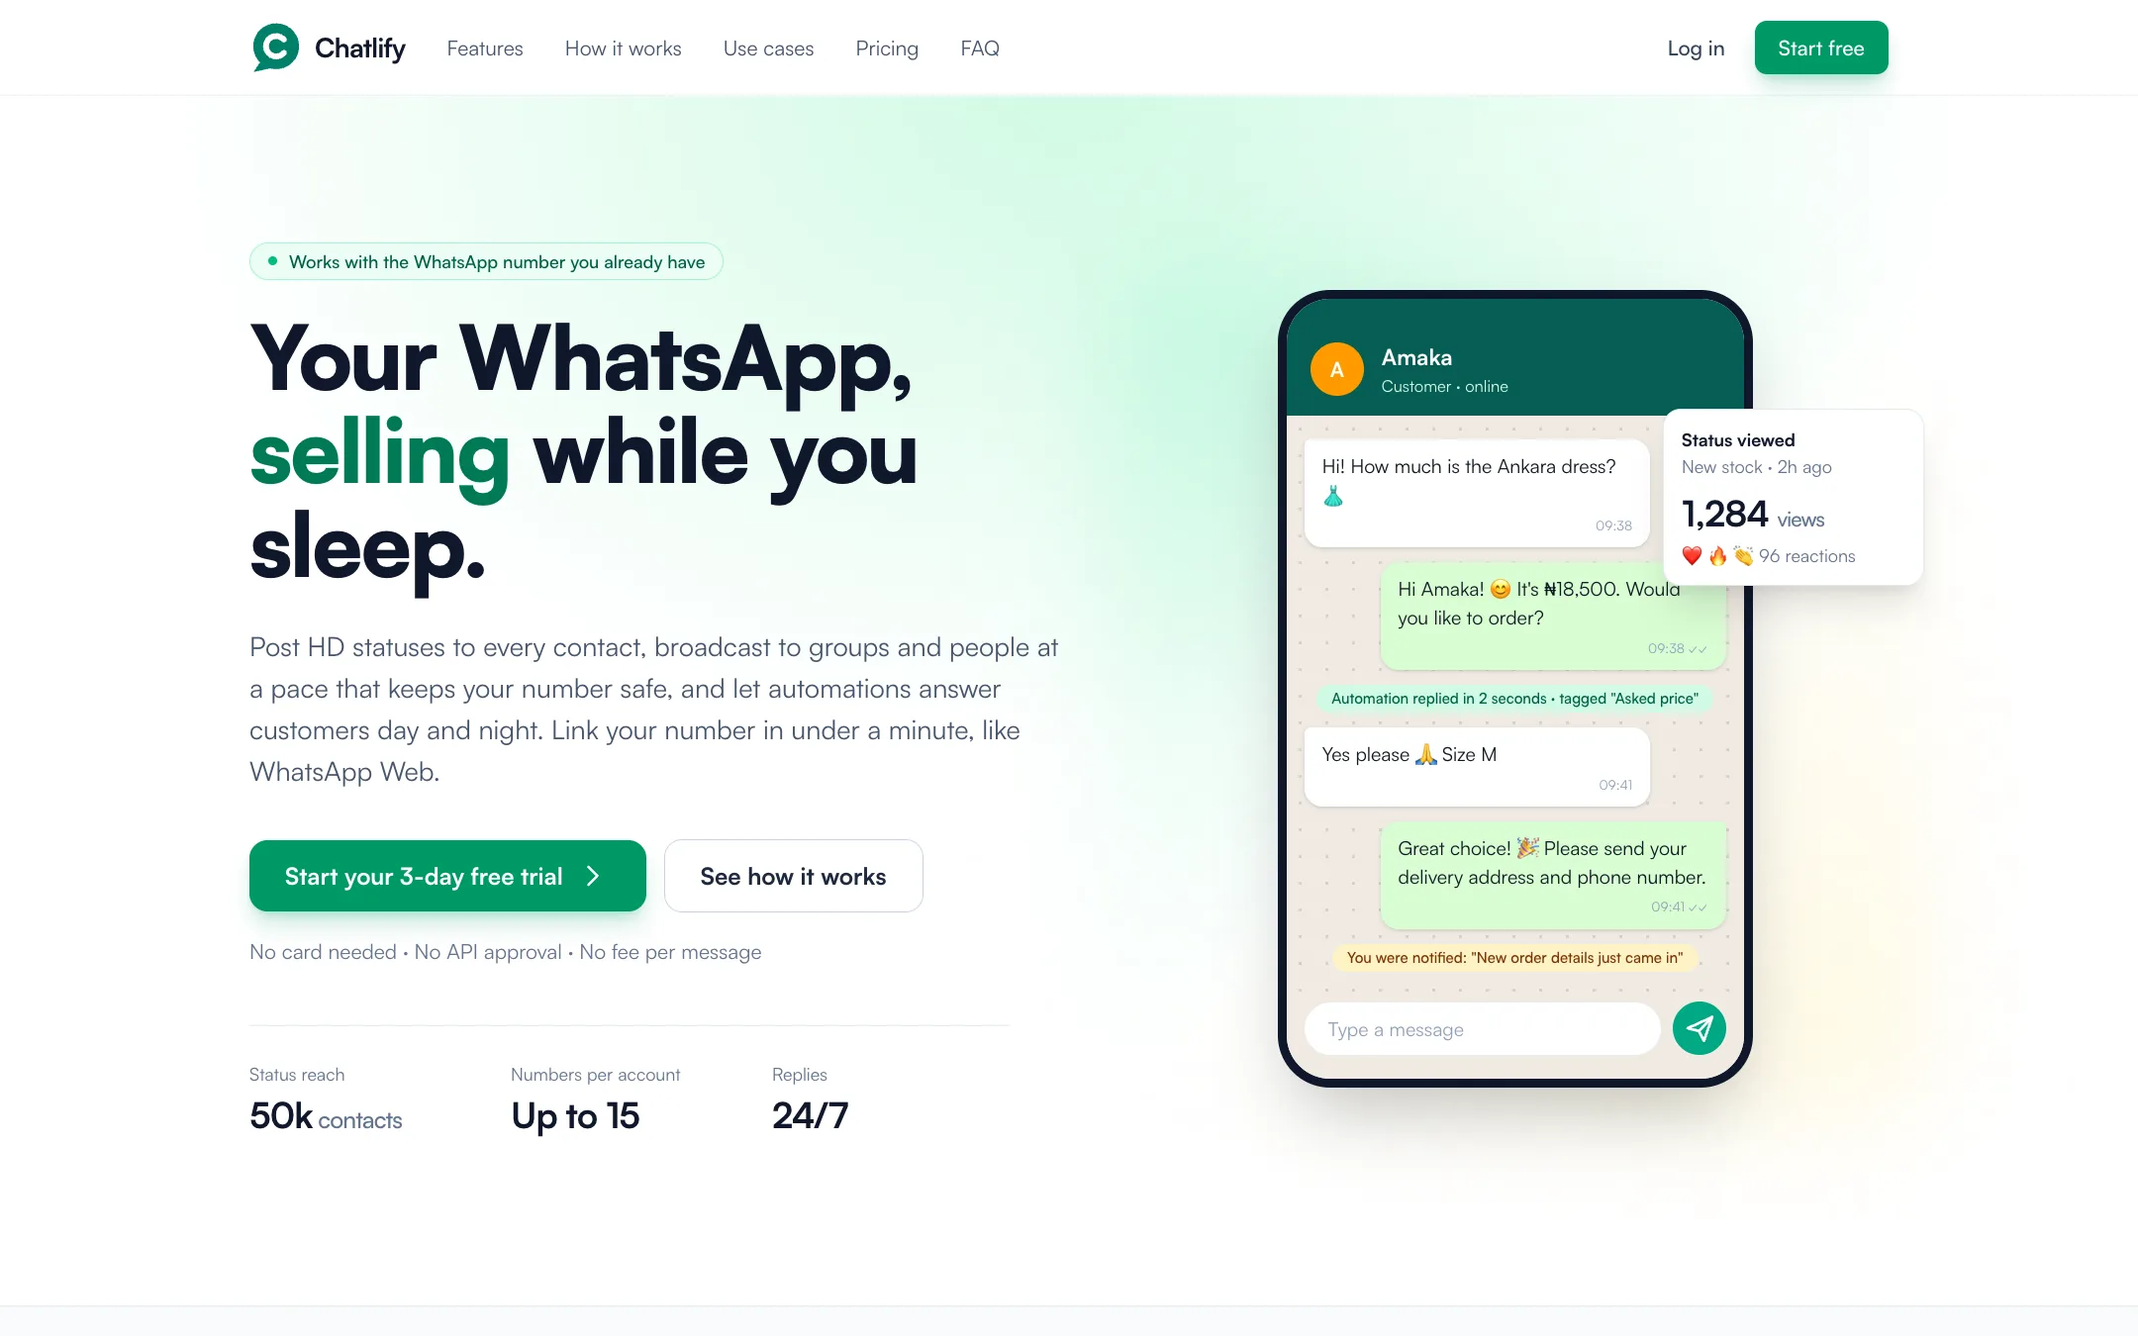
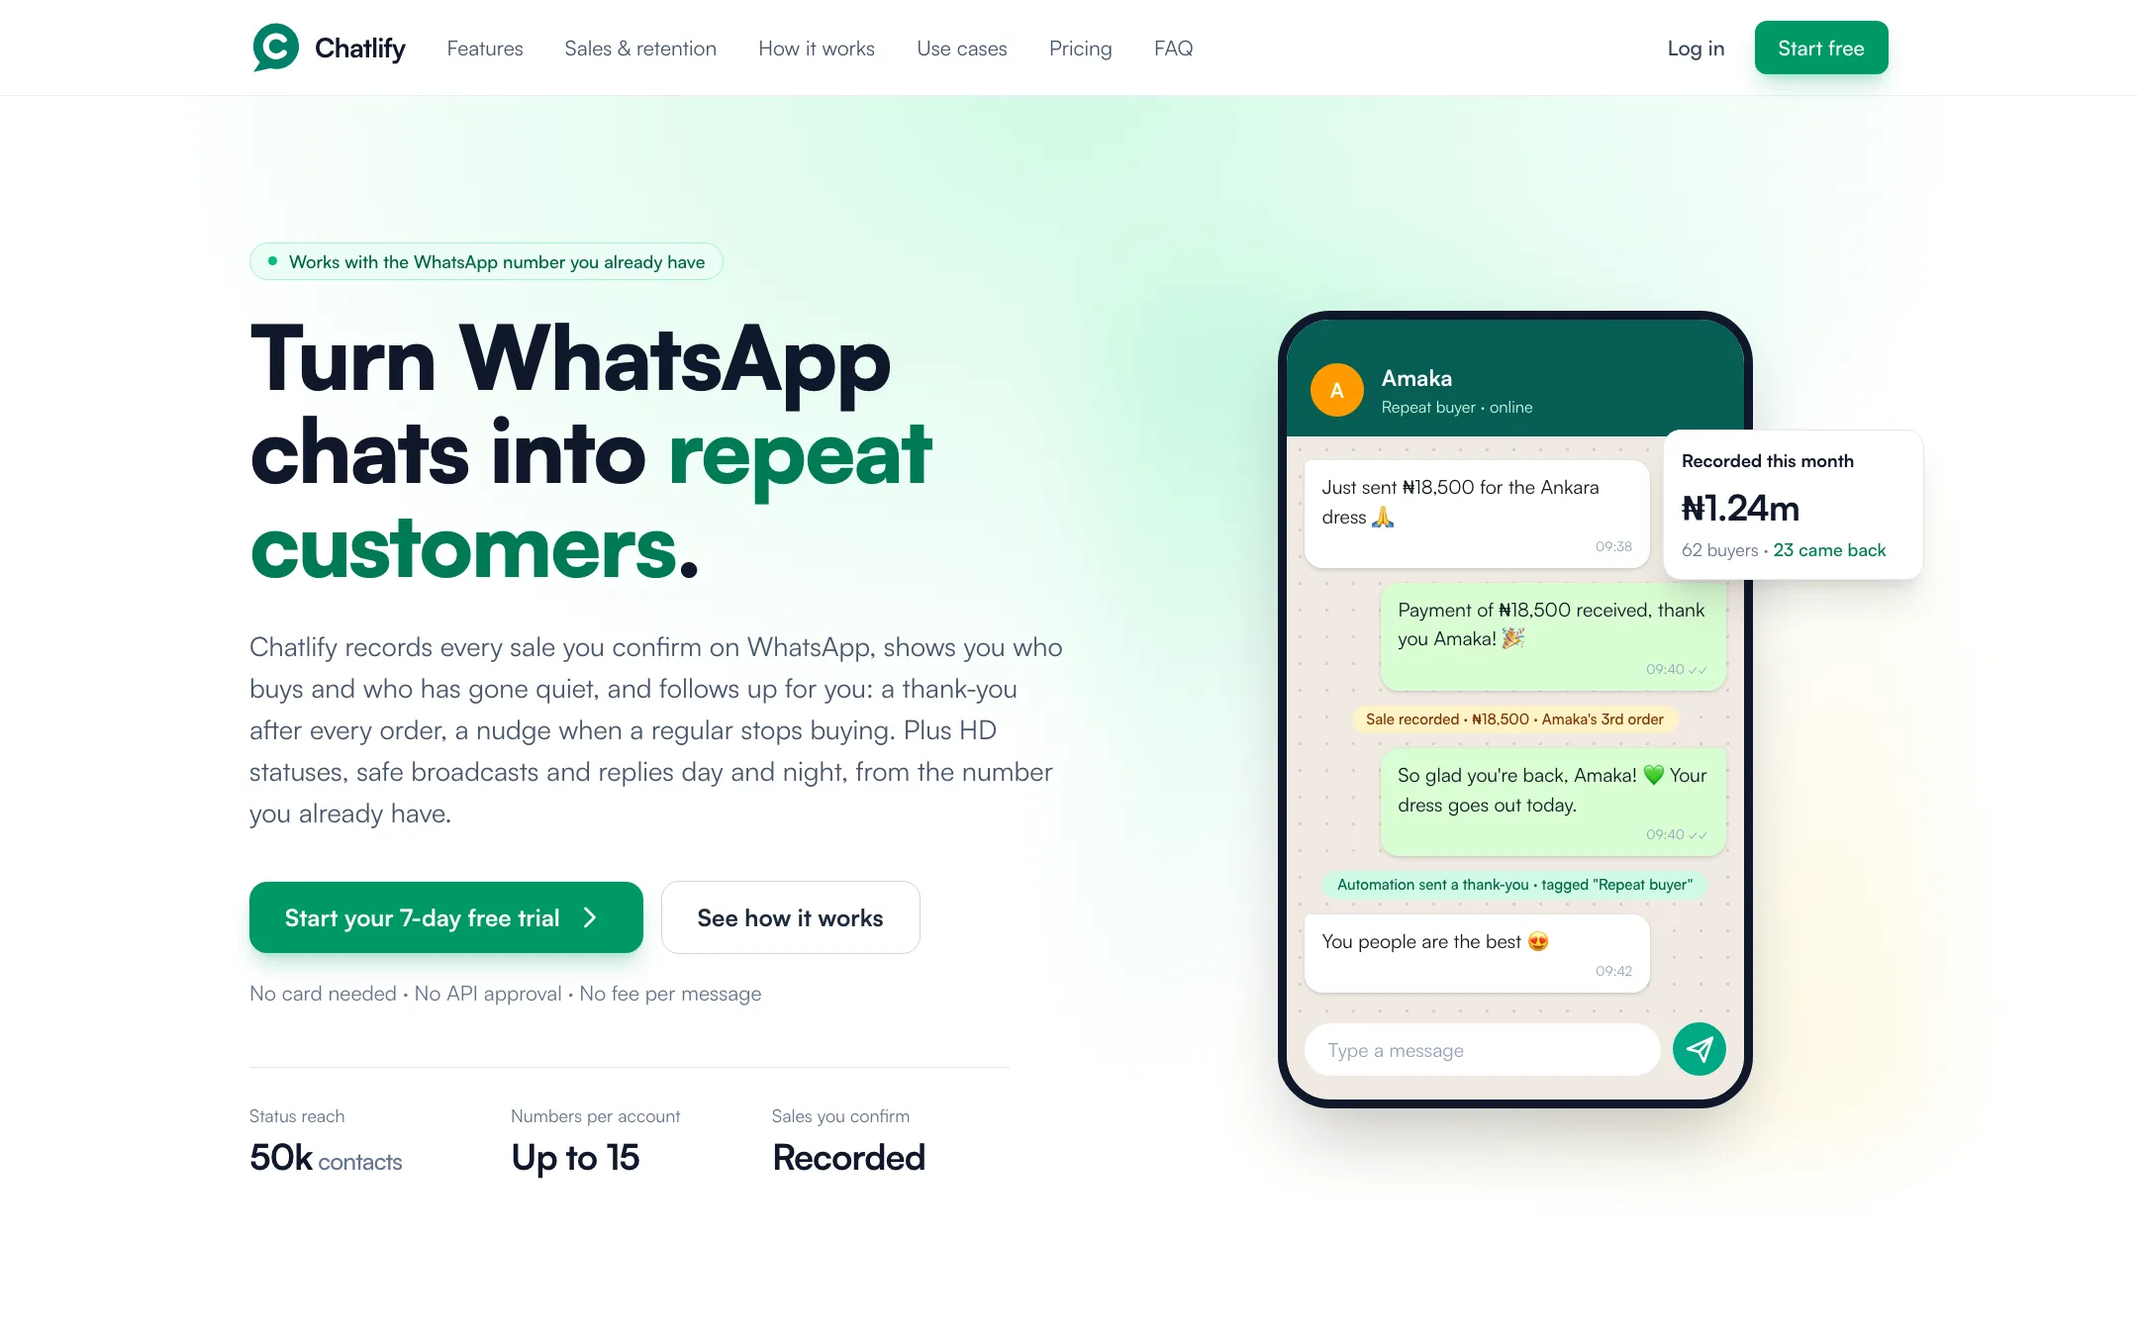
Chatlify product page: lead with sales tracking and repeat customers
Matches the current chatlify.xyz: new headline, sales tracking and
retention features, updated use cases, FAQs and a 7-day trial
throughout, plus a fresh screenshot of the landing page.

diff --git a/config/products.php b/config/products.php
@@ -233,18 +233,18 @@ return [
         'name'            => 'Chatlify',
         'category'        => 'Business',
         'icon'            => 'chat',
-        'blurb'           => 'WhatsApp marketing',
-        'tagline'         => 'WhatsApp marketing from the number you already have',
+        'blurb'           => 'WhatsApp sales and retention',
+        'tagline'         => 'Track sales and win repeat customers on WhatsApp',
         'url'             => 'https://chatlify.xyz',
         'address'         => 'Chatlify',
         'schema_category' => 'BusinessApplication',
-        'description'     => 'Chatlify is WhatsApp marketing for businesses that sell on WhatsApp. Post HD statuses to every contact, broadcast to groups and people at a pace that keeps the number safe, and let automations answer customers day and night.',
-        'meta_description' => 'Chatlify is WhatsApp marketing for businesses: HD statuses to every contact, safe broadcasts and automations that answer customers day and night.',
-        'summary'         => 'A status posted from a phone reaches a few hundred contacts at best, and a customer who messages at 2am waits until morning. Chatlify links to the WhatsApp number a business already has and posts, broadcasts and replies for it, paced so the number stays safe.',
-        'heading'         => 'Your WhatsApp,',
-        'accent'          => 'selling while you sleep.',
-        'lead'            => 'Chatlify links to the WhatsApp number your business already has, the same way WhatsApp Web does. Post HD statuses to every contact, broadcast to groups and people at a pace that keeps your number safe, and let automations answer customers day and night. No API approval and no fee per message.',
-        'proof'           => ['Works with the number you already have', 'No API approval, no fee per message', 'Paced to keep your number safe'],
+        'description'     => 'Chatlify records every sale a business confirms on WhatsApp, shows who buys and who has gone quiet, and follows up for it: a thank-you after every order, a nudge when a regular stops buying. Plus HD statuses, safe broadcasts and replies day and night, from the number it already has.',
+        'meta_description' => 'Chatlify records the sales you confirm on WhatsApp, shows who buys and who has gone quiet, and follows up for you. Free 7-day trial, no card needed.',
+        'summary'         => 'Most WhatsApp sellers cannot say what WhatsApp earned them last month, or which customers have stopped buying. Chatlify turns the payment confirmations a business already sends into recorded sales, and uses them to bring buyers back.',
+        'heading'         => 'Turn WhatsApp chats into',
+        'accent'          => 'repeat customers.',
+        'lead'            => 'Chatlify records every sale you confirm on WhatsApp, shows you who buys and who has gone quiet, and follows up for you: a thank-you after every order, a nudge when a regular stops buying. Plus HD statuses, safe broadcasts and replies day and night, from the number you already have.',
+        'proof'           => ['Works with the number you already have', 'No API approval, no fee per message', 'Every sale you confirm, recorded'],
         'stats'           => [
             ['50k',    'contacts a single status can reach'],
             ['15',     'WhatsApp numbers on one account'],
@@ -252,71 +252,71 @@ return [
             ['7-day',  'free trial, no card needed'],
         ],
         'why' => [
-            'heading' => 'A status from your phone',
-            'accent'  => 'reaches a few hundred people.',
-            'body'    => 'Many small businesses sell on WhatsApp, and much of that selling is done by hand: statuses that only a fraction of contacts see, the same price answered fifty times a day, and broadcasts that risk getting the number banned. Chatlify does the repetitive part for you.',
+            'heading' => 'You confirm every payment in chat,',
+            'accent'  => 'then the record is lost.',
+            'body'    => 'Many small businesses sell on WhatsApp, and they already tell each customer when a payment lands. But those messages disappear into the chat list: nobody knows what WhatsApp earned this month, who the regulars are, or who quietly stopped buying. Chatlify keeps the record and does the follow-up.',
             'before'  => [
-                'Statuses seen by whoever happens to open WhatsApp',
+                'No idea what WhatsApp earned you this month',
+                'Regulars and one-off buyers look the same in your chat list',
+                'Customers who stop buying are only noticed when it is too late',
                 'Price questions answered one by one, or not at all after hours',
-                'Bulk messages that look like spam and put the number at risk',
-                'Contacts scattered across chats, groups and the phone book',
-                'No idea who watches your statuses and who has gone quiet',
+                'Statuses seen only by whoever happens to open WhatsApp',
             ],
             'after' => [
+                'Every payment you confirm recorded as a sale, with revenue on your dashboard',
+                'Each customer\'s orders, spend and last purchase in one place',
+                'Buyer segments, from first-time to lapsed, and a nudge when a regular goes quiet',
+                'Automations reply in seconds and thank every customer after an order',
                 'Statuses posted in HD to everyone who has saved your number, in batches',
-                'Automations reply in seconds, tag the customer and tell you when an order comes in',
-                'Broadcasts sent one at a time with random pauses, within daily limits',
-                'Every chat, contact and group member in one list, ready to tag and segment',
-                'See who viewed and reacted, who has gone quiet and who never saw you',
             ],
         ],
-        'features_heading' => 'All of WhatsApp marketing,',
+        'features_heading' => 'Sell, track and keep customers,',
         'features_accent'  => 'from one dashboard.',
-        'features_note'    => 'Also included: an AI builder that drafts automations and segments from a plain-English description, Google Contacts sync, CSV, Excel and vCard export, and several numbers on one account.',
+        'features_note'    => 'Also included: an AI builder that drafts automations and segments from a plain-English description, insights on who viewed and reacted to each status, Google Contacts sync, CSV, Excel and vCard export, and several numbers on one account.',
         'features' => [
+            ['payments',            'Sales tracking',         'Chatlify learns how you confirm payments and records each confirmation as a sale against the customer. Duplicates are flagged, unclear ones wait for you, and past sales are picked up when you link.'],
+            ['loyalty',             'Retention',              'First-time, repeat, recent, lapsed and VIP buyer segments in one tap. Thank every buyer, wait for their next order and nudge them if it does not come.'],
             ['auto_awesome_motion', 'Status in HD',           'Post photos, videos, text and voice statuses to all your contacts or a segment. Long videos are split into parts for you.'],
+            ['bolt',                'Automations',            'Answer price questions, welcome new chats and follow up after a sale. Build flows on a canvas, start from a template or describe them to the AI builder.'],
             ['campaign',            'Broadcasts that look human', 'One message to many groups or people, sent one at a time with random pauses. Anyone who replies STOP is opted out of everything.'],
-            ['bolt',                'Automations',            'Answer price questions, welcome new chats and follow up with people who went quiet. Build flows on a canvas or start from a template.'],
-            ['contacts',            'Contacts',               'Every chat, saved contact and group member lands in one list, ready to tag, filter and export.'],
-            ['groups',              'Groups',                 'See every group your number is in and how big each is, and broadcast to many at once.'],
-            ['filter_alt',          'Segments',               'Group contacts by who they are, how they found you, their tags and what they did. People join and leave as they match.'],
+            ['contacts',            'Contacts and groups',    'Every chat, saved contact and group member in one list, with what each person has bought and spent, ready to tag, filter and export.'],
+            ['filter_alt',          'Segments',               'Group contacts by tags, groups, how they found you, what they bought, how much they spent and when they last bought. People join and leave as they match.'],
             ['event_repeat',        'Schedule',               'Plan statuses and broadcasts for later, and repeat them on the days you choose.'],
-            ['insights',            'Insights',               'See who viewed and reacted to each status, who has gone quiet, and who has probably never saved your number.'],
-            ['shield',              'Built to avoid bans',    'Daily limits per number, a two-week warm-up for new numbers, and a warning on your dashboard when sending looks risky.'],
+            ['shield',              'Built to avoid bans',    'Daily limits per number, a two-week warm-up for new numbers, and a ban-risk badge on your dashboard before sending gets risky.'],
         ],
         'shots' => [
             ['file' => 'landing.webp', 'title' => 'Chatlify'],
         ],
         'flow_heading' => 'Live in three steps,',
-        'flow_accent'  => 'posting the same day.',
+        'flow_accent'  => 'recording sales the same day.',
         'flow' => [
-            ['Create your account',       'Sign up with Google or an email. The free trial starts at once, no card needed.'],
-            ['Link your WhatsApp',        'Scan a code from Linked devices, or type a pairing code on the same phone. It takes under a minute.'],
-            ['Post, broadcast, automate', 'Contacts and groups sync on their own. Post your first status, pick an automation template and let it run.'],
+            ['Create your account',     'Sign up with Google or an email. The 7-day free trial starts at once, no card needed.'],
+            ['Link your WhatsApp',      'Scan a code from Linked devices, or type a pairing code on the same phone. It takes under a minute.'],
+            ['Sell, track, follow up',  'Contacts, groups and past sales sync on their own. Turn on the thank-you and win-back templates and post your first status.'],
         ],
         'roles' => [
-            ['storefront',     'Online vendors and boutiques', 'Post new stock in HD the moment it lands, and let an automation answer "how much?" and take the order.'],
-            ['restaurant',     'Food, bakers and caterers',    'Schedule the day\'s menu as a status every morning, and collect addresses when someone says "I want".'],
-            ['church',         'Churches and communities',     'Send one announcement to every group at once, and welcome every new person who messages, day or night.'],
-            ['school',         'Schools and trainers',         'Broadcast class reminders and fee notices to parents\' and students\' DMs, with opt-outs handled for you.'],
+            ['storefront',     'Online vendors and boutiques', 'Post new stock in HD, let an automation answer "how much?", and have every confirmed payment recorded, thanked and followed up a month later.'],
+            ['restaurant',     'Food, bakers and caterers',    'Schedule the day\'s menu as a status, see who your regulars are, and send today\'s menu to the ones who have not ordered in a while.'],
+            ['inventory_2',    'Wholesalers and distributors', 'Run several numbers from one account, broadcast the week\'s price list to retailer groups, and segment retailers by spend or how recently they ordered.'],
+            ['content_cut',    'Salons, clinics and service pros', 'Greet after-hours messages instantly, record every paid appointment, and win back the clients you have not seen in a while.'],
         ],
         'outcomes' => [
-            'Statuses seen by thousands, not hundreds',
+            'Know exactly what WhatsApp earns you each month',
+            'More first-time buyers coming back for a second order',
             'Customers answered in seconds, even at 2am',
-            'Broadcasts that keep the number safe',
-            'A clear picture of who is buying and who has gone quiet',
+            'Statuses and broadcasts that reach thousands and keep the number safe',
         ],
         'faqs' => [
-            ['Does this use the official WhatsApp Business API?', 'No. Chatlify links to your existing WhatsApp number the same way WhatsApp Web does, as a linked device. There is no API approval, no template review and no fee per message.'],
-            ['Will my number get banned?', 'Chatlify is built around keeping your number safe. Every number has daily limits that are the same on every plan, new numbers warm up gradually, and messages go out one at a time with random pauses.'],
-            ['Does my phone need to stay on?', 'Your phone needs internet for the first link. After that WhatsApp keeps the linked device working for up to 14 days without the phone, like any other linked device.'],
-            ['Who can see my statuses?', 'The same people who could see them if you posted from your phone: contacts who have saved your number and whom you have saved. Chatlify can save new chats to your Google Contacts so your audience grows.'],
-            ['Can I use more than one number?', 'Yes. Every plan includes WhatsApp numbers and you can add extras up to the plan\'s maximum. Each number has its own daily limits, so more numbers mean more reach, never a riskier pace.'],
-            ['How do I pay?', 'In naira, by card or bank transfer, monthly or yearly. Every plan has every feature; plans differ only in how many numbers you link and how far your statuses reach.'],
+            ['Does this use the official WhatsApp Business API?', 'No. Chatlify links to your existing WhatsApp number the same way WhatsApp Web does, as a linked device. There is no API approval, no template review and no fee per message, and you keep chatting from your phone as normal.'],
+            ['How does Chatlify track my sales?', 'You confirm payments the way you already do, like "Payment of ₦18,500 received, thank you!". Chatlify learns your wording and records each confirmation as a sale against that customer. The same amount confirmed twice within a few minutes is flagged instead of counted twice, and anything unclear waits for you to check. The figures come from your messages, not your bank.'],
+            ['Does Chatlify keep my chats?', 'No. There is no archive of your conversations. For sales, Chatlify keeps only the message where you confirmed a payment, as evidence, and you can mark any of them as not a sale.'],
+            ['Will my number get banned?', 'Chatlify is built around keeping your number safe. Every number has daily limits that are the same on every plan, new numbers warm up gradually, and messages go out one at a time with random pauses. If your number is still banned within 7 days of your first payment, you can ask for that payment back.'],
+            ['What happens when the free trial ends?', 'Sending pauses, but your numbers, contacts, segments and automations are kept. Pick a plan whenever you are ready and carry on where you left off.'],
+            ['How do I pay?', 'In naira, by card or bank, through Paystack or Bachs, monthly or yearly with two months free. Every plan has every feature; plans differ only in how many numbers you link, how far your statuses reach and how many automations run at once.'],
         ],
-        'cta_heading' => 'Link your number and',
-        'cta_accent'  => 'post your first status today.',
-        'cta_body'    => 'Start a free trial, link your WhatsApp in under a minute, and let Chatlify post, broadcast and reply for you. Talk to us if you want help setting up automations for your business.',
+        'cta_heading' => 'Your best customers have',
+        'cta_accent'  => 'already bought from you once.',
+        'cta_body'    => 'Start a 7-day free trial, link your WhatsApp in under a minute, and let Chatlify record your sales and bring buyers back. Talk to us if you want help setting up automations for your business.',
     ],
 
 ];
